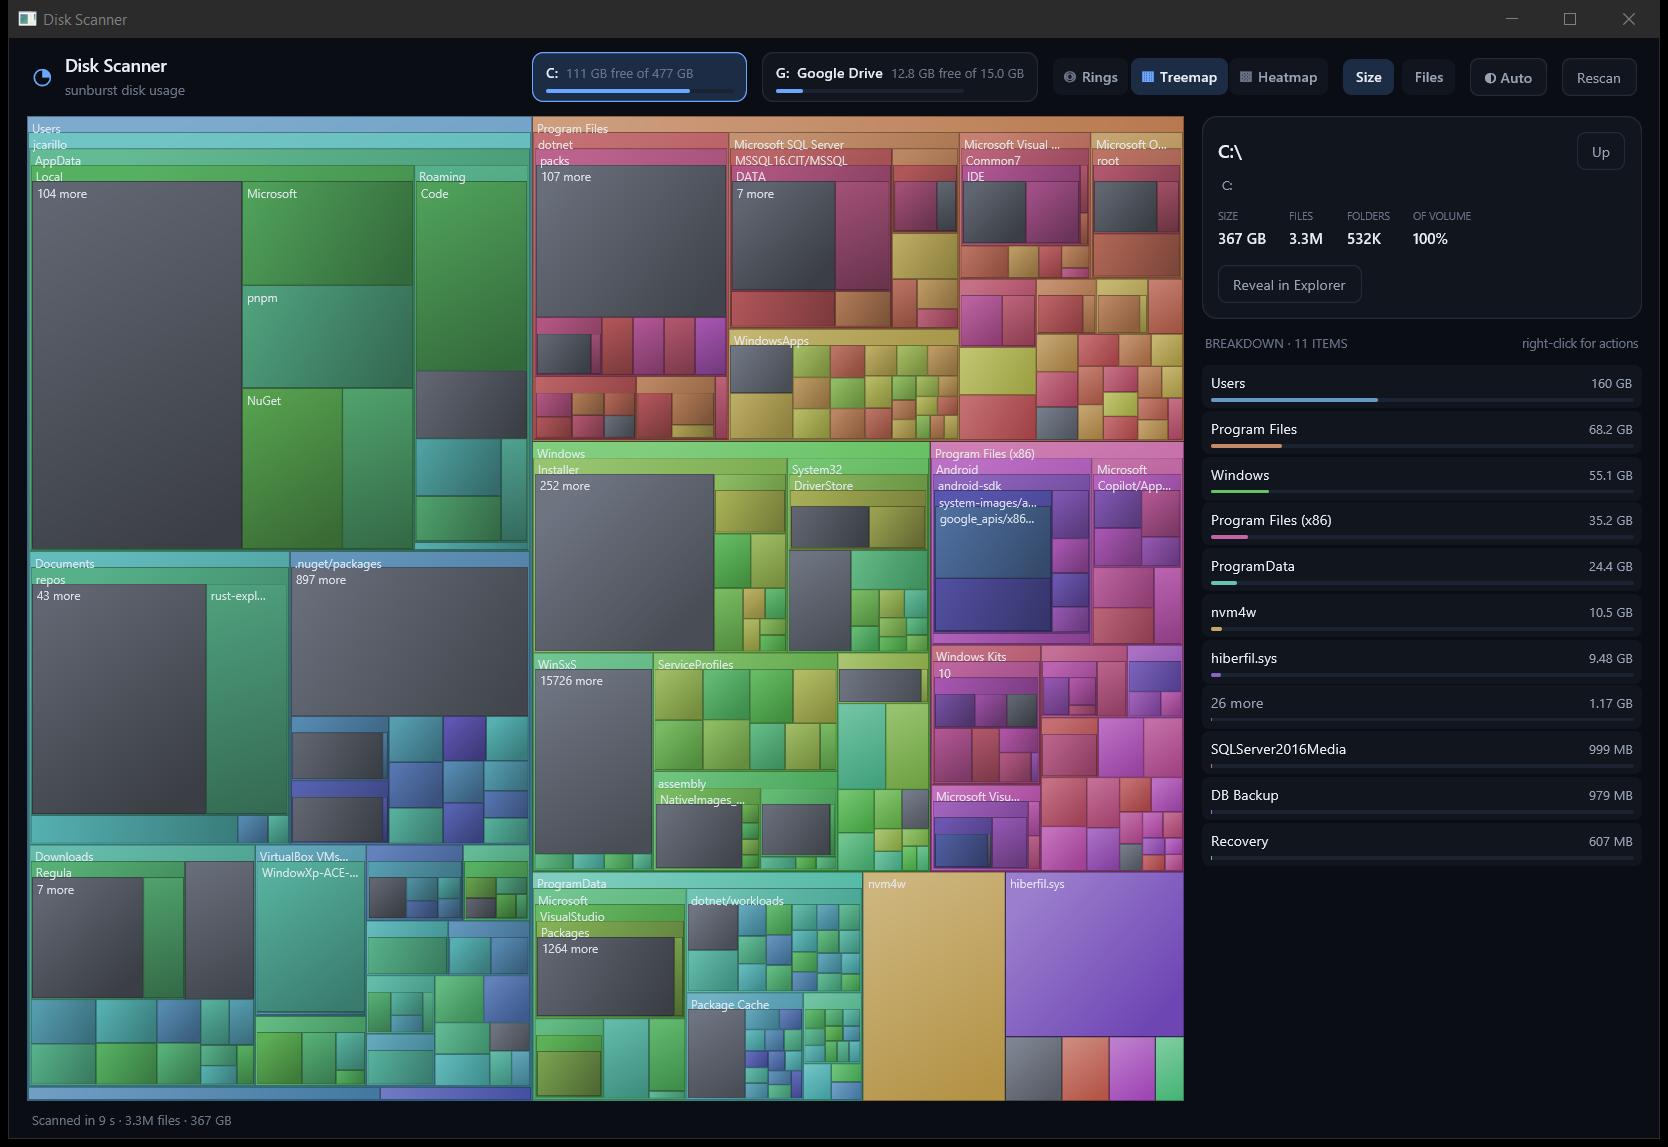
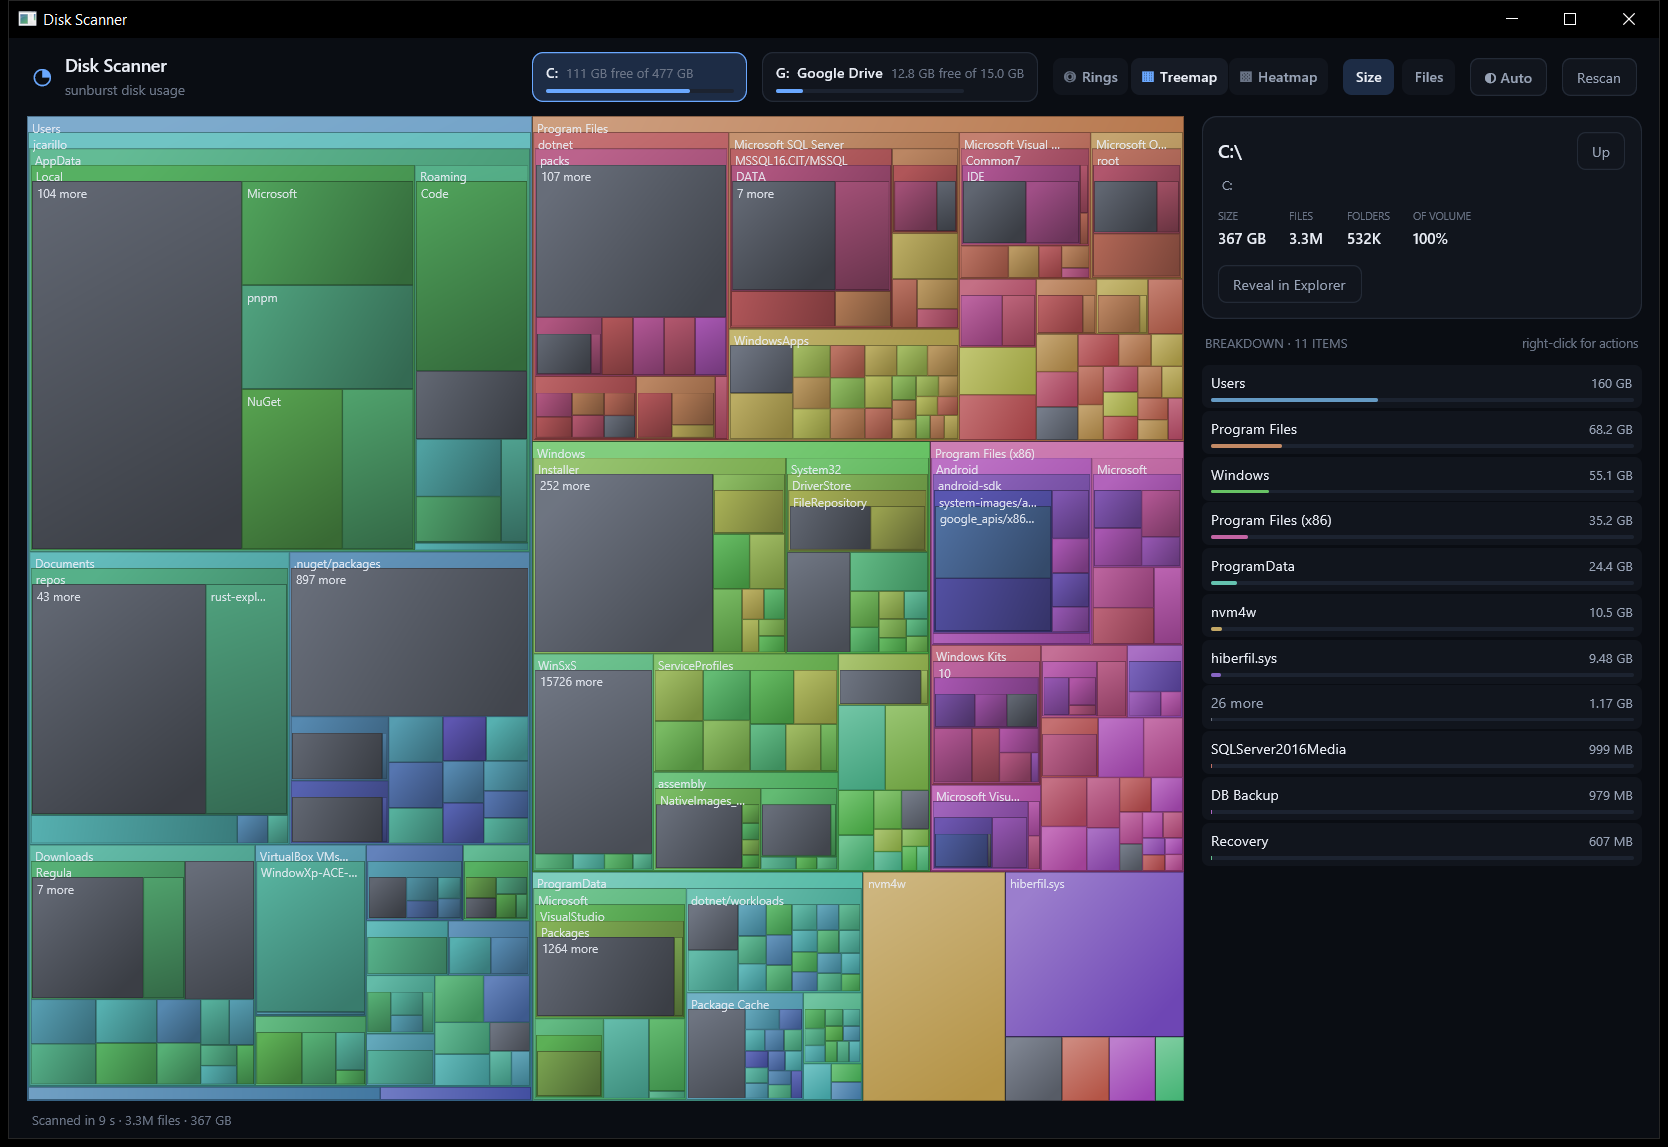
Make the heatmap one level deep and refresh the mode screenshots

diff --git a/apps/desktop-gpui/src/model.rs b/apps/desktop-gpui/src/model.rs
@@ -540,23 +540,34 @@ fn worst_ratio(sum: f32, min: f32, max: f32, side: f32) -> f32 {
 pub fn heatmap(model: &ChartModel, width: f32, height: f32) -> Vec<Tile> {
     let count = model.slices.len();
     let mut tiles = vec![Tile::default(); count];
-    if count == 0 || width <= 1.0 || height <= 1.0 {
+    if count <= 1 || width <= 1.0 || height <= 1.0 {
         return tiles;
     }
 
+    // One level only: the heatmap is there to compare the items *inside* the
+    // open folder, so a leaf file and a whole subtree never share the grid.
+    // (There is no slice for the focus itself — its children carry `usize::MAX`
+    // as their parent.)
+    let mut order: Vec<usize> = (0..count)
+        .filter(|&index| model.slices[index].parent == usize::MAX)
+        .collect();
+    if order.is_empty() {
+        return tiles;
+    }
+
+    let slots = order.len();
     let aspect = (width / height).max(0.2);
-    let cols = ((count as f32 * aspect).sqrt().ceil() as usize).clamp(1, count);
-    let rows = count.div_ceil(cols);
+    let cols = ((slots as f32 * aspect).sqrt().ceil() as usize).clamp(1, slots);
+    let rows = slots.div_ceil(cols);
     let cell_w = width / cols as f32;
     let cell_h = height / rows as f32;
 
     // Biggest first, so the hot cells sit at the top left where the eye lands.
-    let mut order: Vec<usize> = (0..count).collect();
     order.sort_by(|&a, &b| {
         model.slices[b]
             .span()
             .total_cmp(&model.slices[a].span())
-            .then_with(|| model.slices[a].depth.cmp(&model.slices[b].depth))
+            .then_with(|| model.slices[a].node.name.cmp(&model.slices[b].node.name))
     });
 
     for (slot, &index) in order.iter().enumerate() {

diff --git a/README.md b/README.md
@@ -20,9 +20,10 @@ level at once, sized by bytes or by file count, in the spirit of the classic Sca
     directory level deeper. Click a slice to zoom in; hover to trace its ancestry.
   - **Treemap** — the WinDirStat/WizTree layout, squarified so cells stay close to square,
     with a cushion gradient that makes nested folders readable at a glance.
-  - **Heatmap** — every item gets an equal cell and the colour carries the size on a
-    logarithmic scale, which is what makes "a thousand small files add up to more than the
-    one big folder" visible; sorted-list and treemap layouts hide exactly that pattern.
+  - **Heatmap** — every item *in the open folder* gets an equal cell and the colour carries
+    the size on a logarithmic scale, which is what makes "a thousand small files add up to
+    more than the one big folder" visible; sorted-list and treemap layouts hide exactly that
+    pattern. Clicking a cell opens it, so the grid refills with its contents.
 - **Weights cells and rings by size or by file count** — the same tree, re-proportioned.
 - **Breakdown panel** lists the biggest direct children of the focused folder, with a
   visual share meter, and syncs hover highlighting with the chart.
